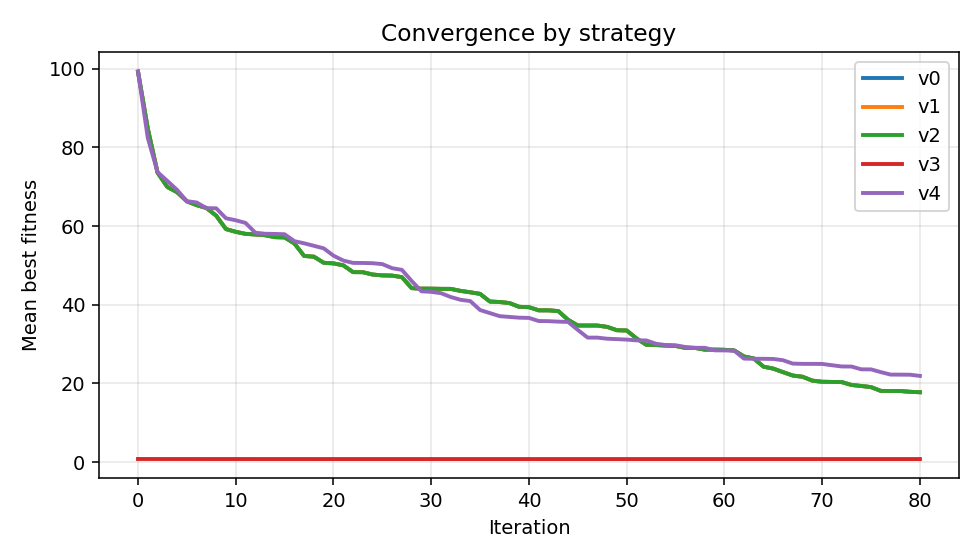
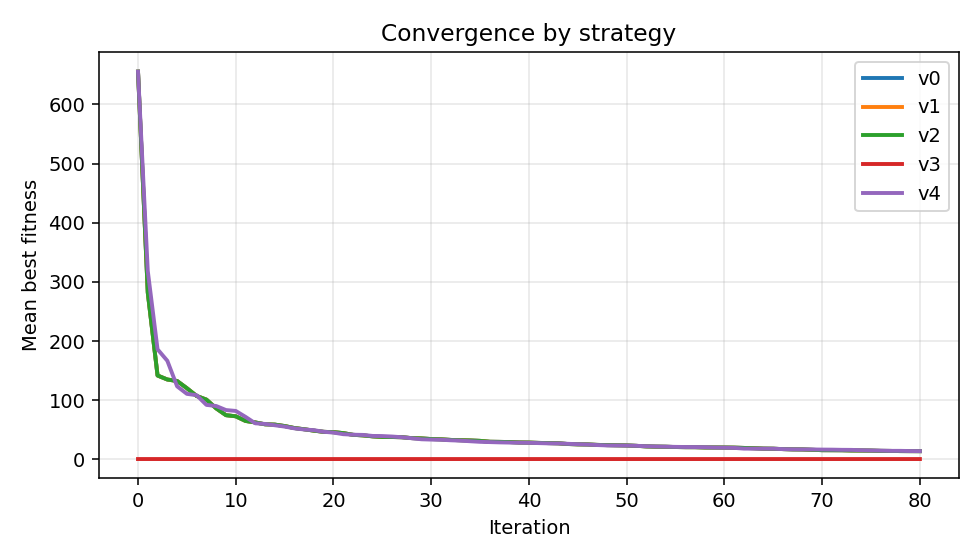
Improve analysis and expand experimental results

diff --git a/experiments/analyze_results.py b/experiments/analyze_results.py
@@ -211,6 +211,48 @@ def _plot_convergence(history_rows, output_path: Path):
     return True
 
 
+def _detect_final_fitness_column(summary_rows):
+    if not summary_rows:
+        return None
+    candidates = ["best_fitness", "best_f", "final_fitness", "fitness"]
+    sample_keys = summary_rows[0].keys()
+    for name in candidates:
+        if name in sample_keys:
+            return name
+    return None
+
+
+def _plot_fitness_boxplot_by_strategy(summary_rows, fitness_col, output_path: Path):
+    by_strategy = {}
+    for row in summary_rows:
+        strategy = row.get("strategy", "unknown")
+        value = _to_float(row.get(fitness_col))
+        if value is None:
+            continue
+        by_strategy.setdefault(strategy, []).append(value)
+
+    labels = sorted(by_strategy.keys())
+    data = [by_strategy[label] for label in labels if by_strategy[label]]
+    labels = [label for label in labels if by_strategy[label]]
+
+    if not data:
+        return False
+
+    fig, ax = plt.subplots(figsize=(8, 4.5))
+    try:
+        ax.boxplot(data, tick_labels=labels, showfliers=True)
+    except TypeError:
+        ax.boxplot(data, labels=labels, showfliers=True)
+    ax.set_xlabel("Strategy")
+    ax.set_ylabel("Final fitness")
+    ax.set_title("Final fitness distribution by strategy")
+    ax.grid(True, axis="y", alpha=0.3)
+    fig.tight_layout()
+    fig.savefig(output_path, dpi=140)
+    plt.close(fig)
+    return True
+
+
 def main():
     parser = argparse.ArgumentParser(description="Analyze PSO results from summary/history/metadata files.")
     parser.add_argument("--input-dir", required=True, help="Directory with one run or multiple run folders")
@@ -293,6 +335,19 @@ def main():
         times_plot = output_dir / "analysis_times_by_strategy.png"
         _plot_times(table, times_plot)
         logging.info("Time comparison plot saved in: %s", times_plot)
+
+        fitness_col = _detect_final_fitness_column(summary_rows)
+        if fitness_col is None:
+            logging.warning(
+                "Final fitness column not found in summary rows. Expected one of: best_fitness, best_f, final_fitness, fitness"
+            )
+        else:
+            fitness_plot = output_dir / "analysis_fitness_boxplot_by_strategy.png"
+            fitness_plotted = _plot_fitness_boxplot_by_strategy(summary_rows, fitness_col, fitness_plot)
+            if fitness_plotted:
+                logging.info("Final fitness boxplot saved in: %s", fitness_plot)
+            else:
+                logging.warning("Final fitness boxplot was skipped (no usable fitness data)")
 
         conv_plot = output_dir / "analysis_convergence_by_strategy.png"
         plotted = _plot_convergence(history_rows, conv_plot)

diff --git a/docs/final_report.md b/docs/final_report.md
@@ -111,6 +111,7 @@ La metodología usada en los resultados locales se reconstruye a partir de `meta
 
 La fuente principal de resultados agregados es `results/analysis_summary.csv` (idéntico en `results_sample/analysis_summary.csv` para este conjunto). También se consideran:
 - `results/analysis_times_by_strategy.png`
+- `results/analysis_fitness_boxplot_by_strategy.png`
 - `results/analysis_convergence_by_strategy.png`
 - `results/viz/wsn_coverage.png` (y copia en `results_sample/wsn_coverage.png`).
 
@@ -153,6 +154,7 @@ En este conjunto local, **V4** es la variante con mejor tiempo medio total y pre
 ### 8.3 Comentario de fitness final
 
 Los valores de fitness medios no son directamente comparables entre todas las estrategias porque el número de ejecuciones y objetivos cubiertos no es homogéneo (por ejemplo, V3 solo tiene `n_runs=2` y enfocados en WSN). Por prudencia, la conclusión fuerte de esta sección se centra en tiempos, no en ranking absoluto de calidad.
+El boxplot `analysis_fitness_boxplot_by_strategy.png` complementa este punto mostrando dispersión y posibles outliers del fitness final por estrategia.
 
 ### 8.4 Comentario de convergencia
 

diff --git a/README.md b/README.md
@@ -164,6 +164,7 @@ py
 py -m experiments.analyze_results --input-dir results\benchmarks_v4_YYYYMMDD_HHMMSS
 
 Este script carga resultados guardados, genera un resumen por estrategia y crea gráficas comparativas de tiempos y convergencia.
+También genera `analysis_fitness_boxplot_by_strategy.png` con la distribución del fitness final por estrategia.
 
 ## Archivos de salida
 
